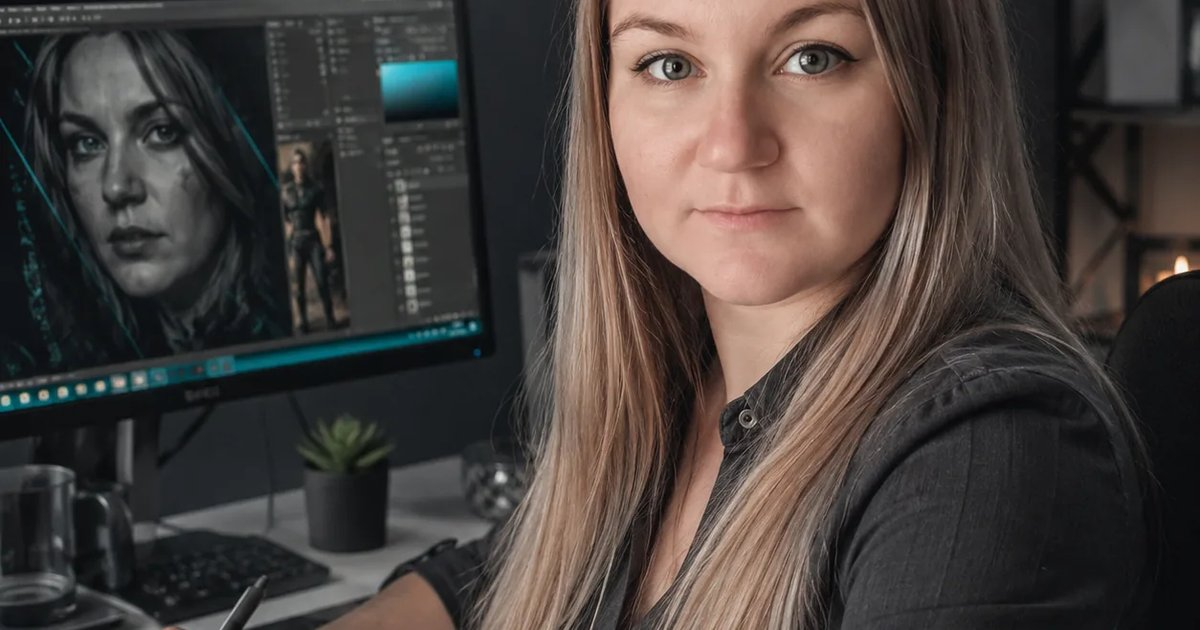
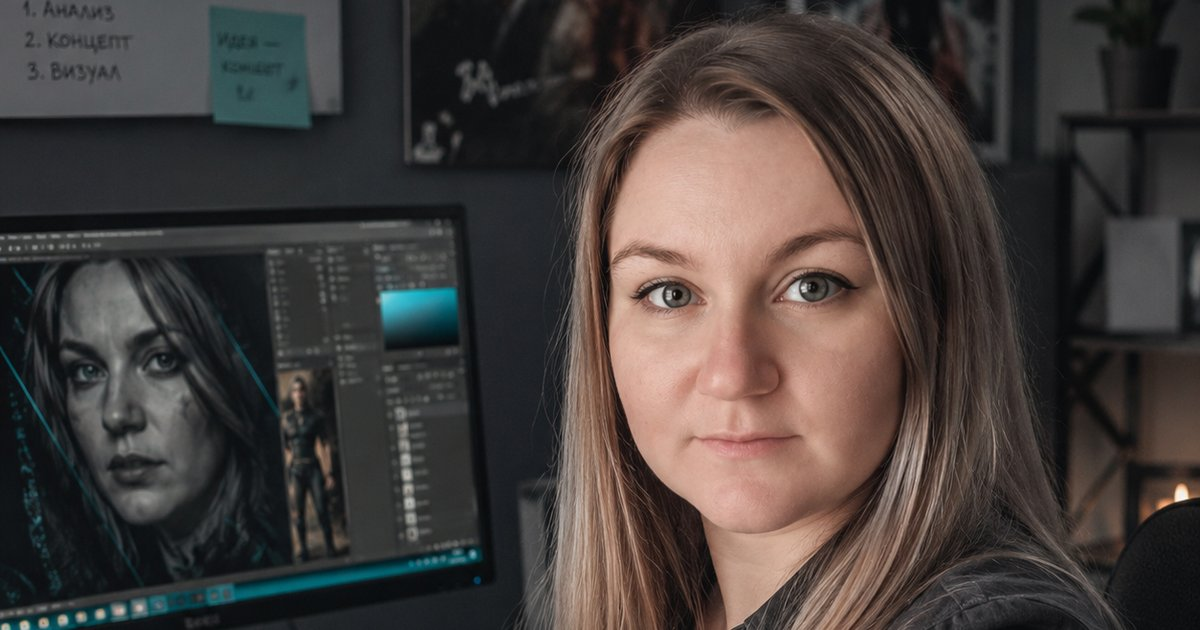
Обновление 27.09 20:26 МСК

diff --git a/index.html b/index.html
@@ -8,7 +8,7 @@
 <meta name="robots" content="noindex, nofollow">
 <meta property="og:title" content="Цифровые решения от Галины Ткачёвой">
 <meta property="og:description" content="Галина Ткачёва — портреты по фото, реставрация снимков, помощники и сайты под ваше дело">
-<meta property="og:image" content="img/card.jpg">
+<meta property="og:image" content="https://tkacheff-tech.github.io/tkacheva/img/card.jpg">
 <meta property="og:type" content="website">
 <link rel="preconnect" href="https://fonts.googleapis.com">
 <link rel="preconnect" href="https://fonts.gstatic.com" crossorigin>
